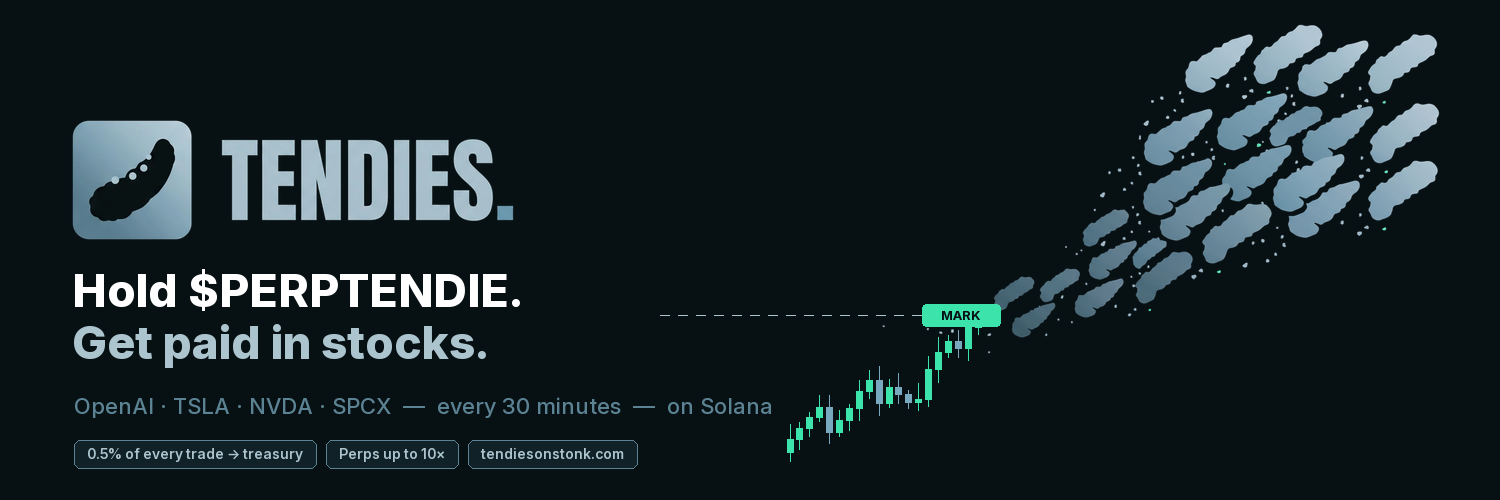
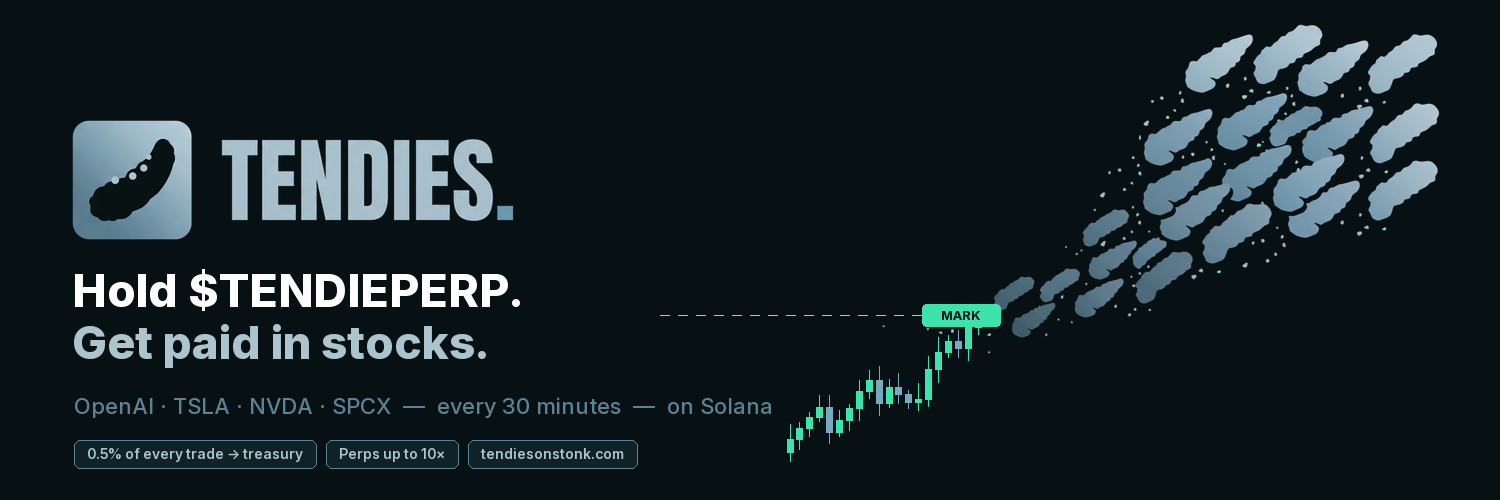
chore: ticker is TENDIEPERP
Claude-Session: https://claude.ai/code/session_01FpUVhYdPCwAErCp9cVuES1

Changed region(s): [[0.1227, 0.54, 0.3373, 0.63]]

diff --git a/app/docs/page.tsx b/app/docs/page.tsx
@@ -6,7 +6,7 @@ import { TENDIE_MINT, TREASURY_WALLET, explorerAccount } from "@/lib/config";
 export const metadata: Metadata = {
   title: "Tendies Docs - How it works",
   description:
-    "Full documentation for Tendies: the PERPTENDIE token (Tendies, Perps & Stonks) on Solana, the 0.5% treasury fee, 30-minute tokenized-stock rewards (OpenAI · TSLA · NVDA · SPCX), perps, the keeper, and security.",
+    "Full documentation for Tendies: the TENDIEPERP token (Tendies, Perps & Stonks) on Solana, the 0.5% treasury fee, 30-minute tokenized-stock rewards (OpenAI · TSLA · NVDA · SPCX), perps, the keeper, and security.",
 };
 
 // xStock mints get pasted in from the official xStocks list at launch — see
@@ -140,7 +140,7 @@ export default function DocsPage() {
                 <b className="text-white">Tendies</b> is a DeFi protocol on
                 Solana that turns trading activity into{" "}
                 <b className="text-tendie">real tokenized stocks</b>. Hold the{" "}
-                <b className="text-white">PERPTENDIE</b> token and the treasury pays
+                <b className="text-white">TENDIEPERP</b> token and the treasury pays
                 you tokenized OpenAI, Tesla, NVIDIA or SpaceX - your pick - every{" "}
                 <b className="text-white">30 minutes</b>, straight to your
                 wallet.
@@ -152,7 +152,7 @@ export default function DocsPage() {
               </p>
               <div className="grid gap-3 sm:grid-cols-3">
                 {[
-                  ["Hold", "Buy & hold PERPTENDIE"],
+                  ["Hold", "Buy & hold TENDIEPERP"],
                   ["Earn", "Tokenized stocks every 30 min"],
                   ["Pick", "OPENAI · TSLA · NVDA · SPCX"],
                 ].map(([h, b]) => (
@@ -168,7 +168,7 @@ export default function DocsPage() {
               <p>The whole loop is three steps:</p>
               <ol className="ml-1 space-y-3">
                 {[
-                  ["Trade fee → treasury", "PERPTENDIE itself is untaxed. Its pool on stonkfun charges 1.25% per trade, of which 0.5% is routed to the treasury and the rest kept by the launchpad."],
+                  ["Trade fee → treasury", "TENDIEPERP itself is untaxed. Its pool on stonkfun charges 1.25% per trade, of which 0.5% is routed to the treasury and the rest kept by the launchpad."],
                   ["Treasury → stocks", "Every 30 minutes a keeper credits every holder pro-rata. Balances are sent out in tokenized stocks - not farm tokens - once they clear a small floor, so network fees never cost more than the payout itself."],
                   ["Stocks → your wallet", "There is no claim button. You pick your payout stock by signing a message; the treasury swaps and sends automatically once your balance clears the floor. Or let it keep accruing and use it as perps margin."],
                 ].map(([t, b], i) => (
@@ -185,7 +185,7 @@ export default function DocsPage() {
               </ol>
               <p className="rounded-lg border border-tendie/20 bg-tendie/5 p-4 text-sm text-mist-200">
                 <b className="text-tendie">Under the hood:</b> the fee arrives
-                in the token PERPTENDIE is paired against - OPENAI - so that is what
+                in the token TENDIEPERP is paired against - OPENAI - so that is what
                 the ledger counts until payout. Your balance is therefore held
                 in OpenAI, not in dollars, and moves with it; the payout floor is
                 converted from dollars at the live rate each epoch. If a stock&apos;s
@@ -196,7 +196,7 @@ export default function DocsPage() {
 
             <Section id="tokenomics" n="03" title="Tokenomics">
               <div className="panel p-6">
-                <Row k="Token" v="Tendies, Perps & Stonks (PERPTENDIE)" />
+                <Row k="Token" v="Tendies, Perps & Stonks (TENDIEPERP)" />
                 <Row k="Total supply" v="1,000,000,000 (fixed, no mint)" />
                 <Row k="Quote pair" v="OPENAI (PreStocks) - permanent, set at launch" />
                 <Row k="Pool fee" v="1.25% per trade" />
@@ -218,7 +218,7 @@ export default function DocsPage() {
                 <Row k="Reward assets" v="OPENAI · TSLAx · NVDAx · SPCXx" />
                 <Row k="Backing" v="xStocks 1:1-backed · OPENAI via PreStocks SPV" />
                 <Row k="Accrual" v="Every 30 minutes, automatic" />
-                <Row k="Eligibility" v="Pro-rata to every PERPTENDIE holder" />
+                <Row k="Eligibility" v="Pro-rata to every TENDIEPERP holder" />
                 <Row k="Sent when" v="Your balance passes the payout floor" />
                 <Row k="Custody" v="Straight to your own wallet" />
                 <Row k="Default payout" v="OpenAI (OPENAI) if you never pick" />
@@ -332,7 +332,7 @@ export default function DocsPage() {
               <p>Two moving parts run the whole thing:</p>
               <ul className="space-y-2 text-sm">
                 <li className="panel p-4">
-                  <b className="text-white">PERPTENDIE</b> - the token. Fixed 1B
+                  <b className="text-white">TENDIEPERP</b> - the token. Fixed 1B
                   supply, no transfer tax, no mint authority after launch - the
                   mint is created by the launchpad, not by us.
                 </li>
@@ -350,7 +350,7 @@ export default function DocsPage() {
               </p>
               <div className="panel p-5 text-sm">
                 <div className="flex flex-col gap-2">
-                  <AddrLink label="PERPTENDIE mint" address={TENDIE_MINT} />
+                  <AddrLink label="TENDIEPERP mint" address={TENDIE_MINT} />
                   <AddrLink label="Treasury" address={TREASURY_WALLET} />
                 </div>
                 <p className="mt-3 text-xs text-mist-400">
@@ -375,10 +375,10 @@ export default function DocsPage() {
 
             <Section id="faq" n="09" title="FAQ">
               {[
-                ["Do I own real shares?", "No. Rewards are tokenized stocks (xStocks 1:1-backed; OPENAI is SPV-backed pre-IPO exposure) held in your wallet; PERPTENDIE itself is a utility token with no equity or shareholder rights. Not affiliated with the underlying companies."],
+                ["Do I own real shares?", "No. Rewards are tokenized stocks (xStocks 1:1-backed; OPENAI is SPV-backed pre-IPO exposure) held in your wallet; TENDIEPERP itself is a utility token with no equity or shareholder rights. Not affiliated with the underlying companies."],
                 ["Where do rewards come from?", "Purely from the 0.5% of every trade the launchpad routes to the treasury. No emissions, no inflation - if there's no trading, there are simply no rewards that epoch."],
                 ["What if I never pick a stock?", "You receive the default (OPENAI). You can change your payout stock any time in the Treasury tab."],
-                ["Can the team rug the fee?", "PERPTENDIE launches on the stonkfun launchpad, so the mint and the bonding curve are the launchpad's, not ours - mint authority is not ours to abuse. The treasury wallet that receives the fee is published and its payouts are visible on Solscan."],
+                ["Can the team rug the fee?", "TENDIEPERP launches on the stonkfun launchpad, so the mint and the bonding curve are the launchpad's, not ours - mint authority is not ours to abuse. The treasury wallet that receives the fee is published and its payouts are visible on Solscan."],
                 ["Is this live?", "Token, treasury and perps are built and tested; the terminal runs in preview until the token launches. Trading unlocks at launch - the mint address will appear here and on the dashboard."],
               ].map(([q, a]) => (
                 <details key={q} className="panel group px-5 py-1 [&_summary]:list-none">

diff --git a/components/landing/Sections.tsx b/components/landing/Sections.tsx
@@ -34,11 +34,11 @@ export function About() {
           <p className="mt-6 text-pretty leading-relaxed text-mist-300">
             Stocks used to be gated behind brokers, borders, and market hours.
             Tokenized equities put them on Solana - Tendies turns them into a
-            reward. Hold PERPTENDIE and the treasury pays you tokenized OpenAI,
+            reward. Hold TENDIEPERP and the treasury pays you tokenized OpenAI,
             Tesla, NVIDIA or SpaceX every 30 minutes, straight to your wallet.
           </p>
           <p className="mt-4 text-pretty leading-relaxed text-mist-300">
-            The token itself grants no equity. PERPTENDIE carries no transfer tax at
+            The token itself grants no equity. TENDIEPERP carries no transfer tax at
             all - the pool it trades in charges 1.25% per trade, and 0.5% of that
             feeds the treasury, which distributes real tokenized stocks pro-rata
             to holders - no emissions, no inflation - and unlocks a speculative
@@ -74,7 +74,7 @@ export function About() {
             ))}
           </ul>
           <div className="mt-2 border-t border-tendie/15 pt-4 font-mono text-sm text-mist-300">
-            Hold PERPTENDIE → the treasury pays you these real tokenized stocks,
+            Hold TENDIEPERP → the treasury pays you these real tokenized stocks,
             pro-rata, straight to your wallet. Your pick.
           </div>
         </Reveal>
@@ -282,7 +282,7 @@ export function FAQ() {
   const faqs = [
     {
       q: "Do I own real shares?",
-      a: "The rewards are tokenized equities on Solana, held in your own wallet. TSLAx, NVDAx and SPCXx are xStocks - 1:1-collateralised equity tokens. OPENAI is a PreStocks token: pre-IPO exposure via an SPV that holds the shares, not a share itself. PERPTENDIE confers no equity or shareholder rights. Not affiliated with the underlying companies.",
+      a: "The rewards are tokenized equities on Solana, held in your own wallet. TSLAx, NVDAx and SPCXx are xStocks - 1:1-collateralised equity tokens. OPENAI is a PreStocks token: pre-IPO exposure via an SPV that holds the shares, not a share itself. TENDIEPERP confers no equity or shareholder rights. Not affiliated with the underlying companies.",
     },
     {
       q: "Where does the price data come from?",
@@ -302,7 +302,7 @@ export function FAQ() {
     },
     {
       q: "What chain is this on?",
-      a: "Solana. PERPTENDIE launches on the stonkfun launchpad - connect Phantom or Solflare and you're in. No network to add, no bridge.",
+      a: "Solana. TENDIEPERP launches on the stonkfun launchpad - connect Phantom or Solflare and you're in. No network to add, no bridge.",
     },
   ];
   return (
@@ -384,7 +384,7 @@ export function Footer() {
         <div className="max-w-xs">
           <Wordmark />
           <p className="mt-4 text-sm leading-relaxed text-mist-400">
-            Hold PERPTENDIE, get paid in real tokenized stocks every 30 minutes. Not
+            Hold TENDIEPERP, get paid in real tokenized stocks every 30 minutes. Not
             affiliated with the underlying companies.
           </p>
         </div>

diff --git a/lib/mock.ts b/lib/mock.ts
@@ -6,7 +6,7 @@ import { KEEPER_URL } from "./config";
 
 // Feature flags — what's live vs. on the roadmap (see landing Roadmap section)
 export const FEATURES = {
-  tradeLive: false, // unlocks with the PERPTENDIE token launch (see lib/config.ts)
+  tradeLive: false, // unlocks with the TENDIEPERP token launch (see lib/config.ts)
   // Perps run inside the keeper, so they are live exactly when it is wired
   // up. Until NEXT_PUBLIC_KEEPER_URL is set the terminal shows a preview.
   perpsLive: Boolean(KEEPER_URL),
@@ -23,10 +23,10 @@ export const TREASURY = {
   // slice of it, which is the entire reward budget. stonkfun keeps the rest.
   poolFeeBps: 125, // LaunchLab's fixed trading fee
   treasuryFeeBps: 50, // → treasury (the creator's share)
-  // PERPTENDIE is priced against this, not against a stablecoin.
+  // TENDIEPERP is priced against this, not against a stablecoin.
   quoteSymbol: "OPENAI",
   tokenPriceUsd: 0,
-  tokenSymbol: "PERPTENDIE",
+  tokenSymbol: "TENDIEPERP",
   // Where the 0.5% comes from: the stonkfun launchpad's creator fee share on
   // trading volume. The mint itself carries no transfer fee — a standard
   // stonkfun launch provably has none — so wallet↔wallet moves are free.
@@ -38,7 +38,7 @@ export const TREASURY = {
 
 export type Direction = "long" | "short";
 
-// Solana mainnet-beta — PERPTENDIE launches on the stonkfun launchpad.
+// Solana mainnet-beta — TENDIEPERP launches on the stonkfun launchpad.
 export const NETWORK = {
   name: "Solana",
   cluster: "mainnet-beta",

diff --git a/app/layout.tsx b/app/layout.tsx
@@ -25,10 +25,10 @@ const spaceMono = Space_Mono({
 export const metadata: Metadata = {
   title: "Tendies - Hold the bag. Get the tendies.",
   description:
-    "Hold PERPTENDIE and earn rewards in tokenized stocks - OpenAI pre-IPO, TSLA, NVDA or SPCX - paid out every 30 minutes. No brokerage account, 24/7, self-custody. Launched on stonkfun, settled on Solana.",
+    "Hold TENDIEPERP and earn rewards in tokenized stocks - OpenAI pre-IPO, TSLA, NVDA or SPCX - paid out every 30 minutes. No brokerage account, 24/7, self-custody. Launched on stonkfun, settled on Solana.",
   keywords: [
     "Tendies",
-    "PERPTENDIE",
+    "TENDIEPERP",
     "Tendies, Perps & Stonks",
     "tokenized stocks",
     "Solana",
@@ -44,14 +44,14 @@ export const metadata: Metadata = {
   openGraph: {
     title: "Tendies - Hold the bag. Get the tendies.",
     description:
-      "Earn tokenized stocks (OpenAI · TSLA · NVDA · SPCX) every 30 minutes just by holding PERPTENDIE. On Solana.",
+      "Earn tokenized stocks (OpenAI · TSLA · NVDA · SPCX) every 30 minutes just by holding TENDIEPERP. On Solana.",
     type: "website",
   },
   twitter: {
     card: "summary_large_image",
     title: "Tendies - Hold the bag. Get the tendies.",
     description:
-      "Earn tokenized stocks (OpenAI · TSLA · NVDA · SPCX) every 30 minutes just by holding PERPTENDIE. On Solana.",
+      "Earn tokenized stocks (OpenAI · TSLA · NVDA · SPCX) every 30 minutes just by holding TENDIEPERP. On Solana.",
   },
 };
 

diff --git a/components/terminal/views/Trade.tsx b/components/terminal/views/Trade.tsx
@@ -78,10 +78,10 @@ export function Trade() {
         <div className="panel mb-6 flex flex-col items-start justify-between gap-3 border-tendie/30 bg-tendie/5 p-5 sm:flex-row sm:items-center">
           <div>
             <div className="font-bold text-tendie">
-              In-app trading unlocks with the PERPTENDIE launch
+              In-app trading unlocks with the TENDIEPERP launch
             </div>
             <div className="mt-1 text-sm text-mist-300">
-              Until then, PERPTENDIE trades on its stonkfun launchpad page - the
+              Until then, TENDIEPERP trades on its stonkfun launchpad page - the
               button below takes you there.
             </div>
           </div>
@@ -204,7 +204,7 @@ export function Trade() {
         </button>
 
         <p className="mt-3 text-center text-xs text-mist-400">
-          PERPTENDIE itself is untaxed — the {TREASURY.poolFeeBps / 100}% is charged
+          TENDIEPERP itself is untaxed — the {TREASURY.poolFeeBps / 100}% is charged
           by the pool. {TREASURY.treasuryFeeBps / 100}% of it funds the stock
           rewards; stonkfun keeps the rest.
         </p>

diff --git a/keeper/src/solana.js b/keeper/src/solana.js
@@ -1,6 +1,6 @@
 // Solana wiring: connection, treasury signer, and the holder snapshot.
 // The distribution model needs no custom program — the treasury simply reads
-// who holds PERPTENDIE and sends xStocks out pro-rata.
+// who holds TENDIEPERP and sends xStocks out pro-rata.
 
 import {
   Connection,
@@ -39,7 +39,7 @@ export async function snapshotHolders() {
   if (!config.mint) return [];
   const mint = new PublicKey(config.mint);
   const excluded = new Set(config.exclude);
-  // The treasury holds the PERPTENDIE half of the creator fee as the buyback
+  // The treasury holds the TENDIEPERP half of the creator fee as the buyback
   // reserve. Left in the snapshot it would pay itself a share of every epoch,
   // so it is excluded whether or not the operator remembered to list it.
   if (treasury) excluded.add(treasury.publicKey.toBase58());

diff --git a/lib/keeper.ts b/lib/keeper.ts
@@ -15,7 +15,7 @@ export type Account = {
   // null when the fee token could not be priced this request.
   accruedUsd: number | null;
   minPayoutUsd: number;
-  balance: number; // PERPTENDIE held at the last epoch snapshot
+  balance: number; // TENDIEPERP held at the last epoch snapshot
   shareBps: number; // share of circulating supply, basis points
   snapshotAt: string | null;
   // measured by the keeper, never assigned
@@ -46,7 +46,7 @@ export type KeeperStatus = {
   treasury: {
     pendingFee: number; // fee-token units
     pendingFeeUsd: number | null; // the same in dollars, null if unpriced
-    buybackReserve: number; // PERPTENDIE held back for buybacks
+    buybackReserve: number; // TENDIEPERP held back for buybacks
     holders: number;
     payoutStocks: string[];
   };

diff --git a/components/terminal/views/Treasury.tsx b/components/terminal/views/Treasury.tsx
@@ -234,7 +234,7 @@ export function Treasury() {
                 href={`https://twitter.com/intent/tweet?text=${encodeURIComponent(
                   streak > 0
                     ? `${streak} epochs in the kitchen. paid in real tokenized stock, every 30 minutes.\n\nI'm cooking.`
-                    : "holding $PERPTENDIE. paid in real tokenized stock every 30 minutes.\n\nI'm cooking.",
+                    : "holding $TENDIEPERP. paid in real tokenized stock every 30 minutes.\n\nI'm cooking.",
                 )}&url=${encodeURIComponent(`${SITE_URL}/card/${wallet.address}?v=${CARD_VERSION}`)}`}
                 target="_blank"
                 rel="noopener noreferrer"

diff --git a/lib/config.ts b/lib/config.ts
@@ -2,11 +2,11 @@
 // Fill these in when the token goes live. Everything that depends on them
 // shows a "TBA / Soon" state until they're set.
 
-// PERPTENDIE SPL mint on Solana.
+// TENDIEPERP SPL mint on Solana.
 // ⟵ PASTE THE MINT ADDRESS HERE after the stonkfun launch (enables balance reads)
 export const TENDIE_MINT = "";
 
-// PERPTENDIE is launched on the stonkfun launchpad — coins paired with real
+// TENDIEPERP is launched on the stonkfun launchpad — coins paired with real
 // assets. ⟵ PASTE THE COIN PAGE URL HERE once it exists, e.g.
 //    https://www.stonkfun.xyz/coin/<mint>
 export const BUY_TENDIE_URL = "https://www.stonkfun.xyz/";

diff --git a/keeper/src/server.js b/keeper/src/server.js
@@ -89,8 +89,8 @@ async function buildStatus() {
       pendingFeeUsd: toUsd(fee.toString()),
       payoutStocks: config.payoutMints.map((p) => p.symbol),
       holders: holders.length,
-      // The PERPTENDIE side of the creator fee. Never distributed — it accumulates
-      // as the buyback reserve, in PERPTENDIE's own 6 decimals, not the fee token's.
+      // The TENDIEPERP side of the creator fee. Never distributed — it accumulates
+      // as the buyback reserve, in TENDIEPERP's own 6 decimals, not the fee token's.
       buybackReserve: Number(reserve) / 10 ** 6,
     },
     ledger: {

diff --git a/keeper/src/swap.js b/keeper/src/swap.js
@@ -53,7 +53,7 @@ export async function treasuryBalance(mintStr) {
 
 export const feeBalance = () => treasuryBalance(config.feeMint);
 
-// The PERPTENDIE half of the creator fee. It is deliberately never swapped or
+// The TENDIEPERP half of the creator fee. It is deliberately never swapped or
 // distributed: it sits in the treasury as the buyback reserve. Reported so the
 // pile is visible rather than looking like a stuck balance.
 export const buybackReserve = () => treasuryBalance(config.mint);

diff --git a/components/terminal/views/Dashboard.tsx b/components/terminal/views/Dashboard.tsx
@@ -46,7 +46,7 @@ export function Dashboard({ go }: { go: (v: View) => void }) {
           <div>
             <div className="font-medium text-tendie">Wallet not connected</div>
             <div className="text-sm text-mist-300">
-              Connect to load your PERPTENDIE balance straight from the chain.
+              Connect to load your TENDIEPERP balance straight from the chain.
             </div>
           </div>
           <span className="chip">Phantom · Solflare</span>
